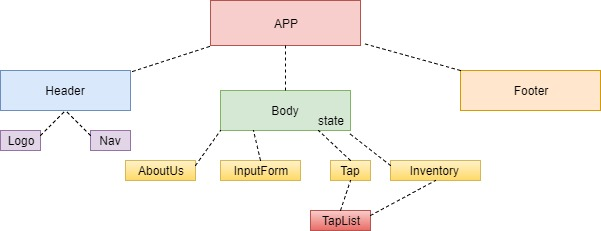
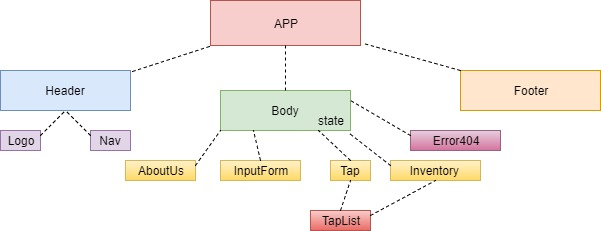
add error page

Changed region(s): [[0.6589, 0.5455, 0.8386, 0.6667], [0.629, 0.5152, 0.6589, 0.5455], [0.599, 0.4545, 0.629, 0.4848]]

diff --git a/src/components/Body.jsx b/src/components/Body.jsx
@@ -5,6 +5,7 @@ import Tap from './Tap';
 import AboutUs from './AboutUs';
 import Inventory from './Inventory';
 import InputForm from './InputForm';
+import Error404 from './Error404';
 
 import MotherEarth from '../Assets/mother-earth.png';
 import Laurelwood from '../Assets/laurelwood.jpg';
@@ -76,6 +77,7 @@ class Body extends React.Component {
           <Route path='/inventory' render={()=><Inventory masterKegListPass={this.state.masterKegList} />} />
           <Route path='/inputForm' render={()=><InputForm newKegInput={this.handleAddingKeg}/>} />
           <Route path='/aboutUs' component={ AboutUs } />
+          <Route component={Error404} />
         </Switch>
       </div>
     );

diff --git a/src/components/Error404.jsx b/src/components/Error404.jsx
@@ -1,0 +1,27 @@
+import React from 'react';
+import { Link } from 'react-router-dom';
+import PropTypes from 'prop-types';
+import error from './../Assets/error.jpg';
+
+function Error404(props){
+  const errorDivStyles = {
+    textAlign: 'center'
+  };
+
+  const imgStyles = {
+    objectFit: 'cover'
+  };
+  return (
+    <div style={errorDivStyles}>
+      <h2>The page {props.location.pathname} does not exist!</h2>
+      <img style={imgStyles} src={error}/>
+      <h3>Would you like to return <Link to="/">Home</Link> instead?</h3>
+    </div>
+  );
+}
+
+Error404.propTypes = {
+  location: PropTypes.object
+};
+
+export default Error404;
